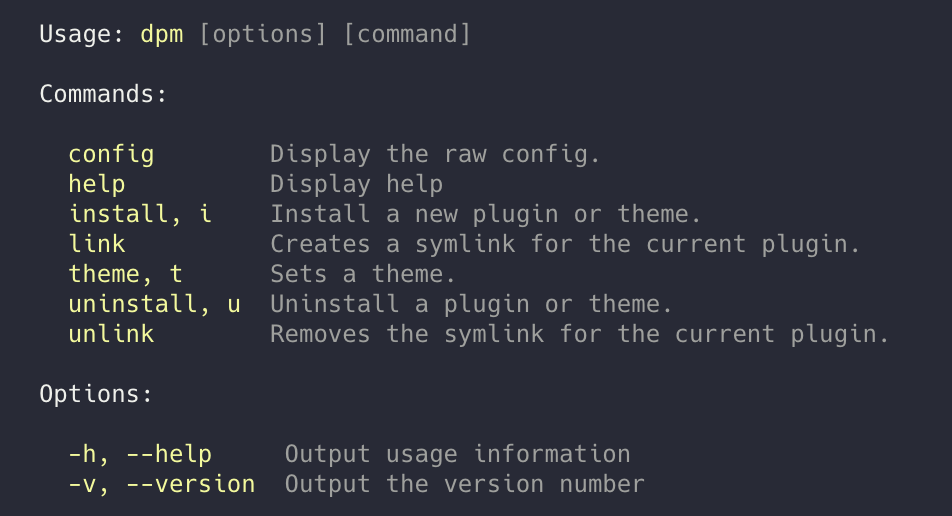
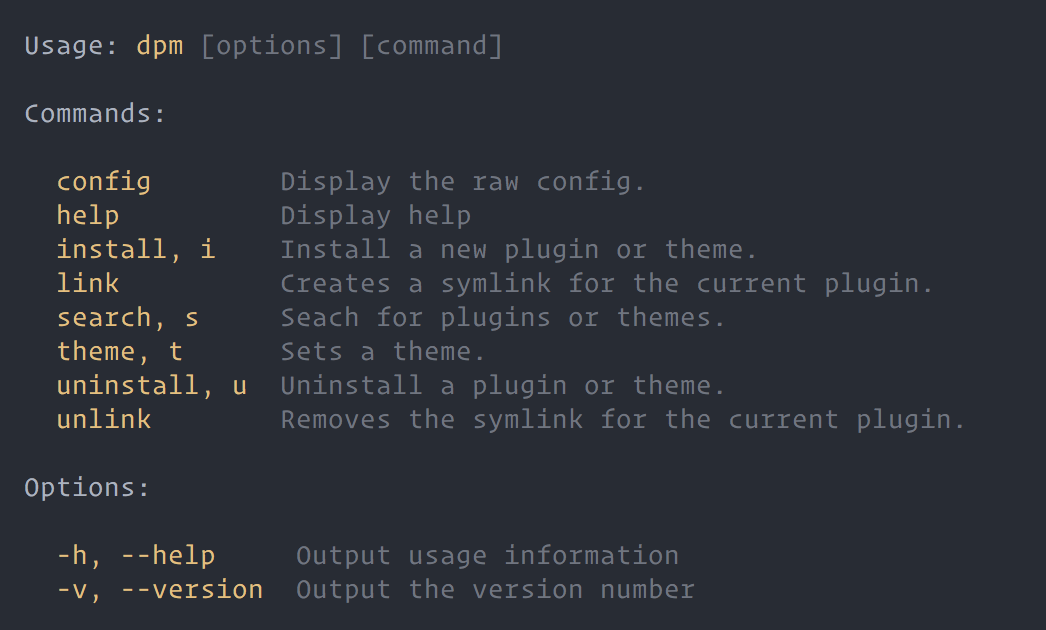
update README/screenshot

diff --git a/README.md b/README.md
@@ -26,6 +26,15 @@ $ dpm uninstall dext-my-plugin
 
 # sets a new theme
 $ dpm theme dext-my-theme
+
+# search for a plugin/theme
+$ dpm search github
+
+# creates a symlink (current directory) to dext plugin directory (for development)
+$ dpm link
+
+# unlinks the current directory
+$ dpm unlink
 ```
 
 ## Related
